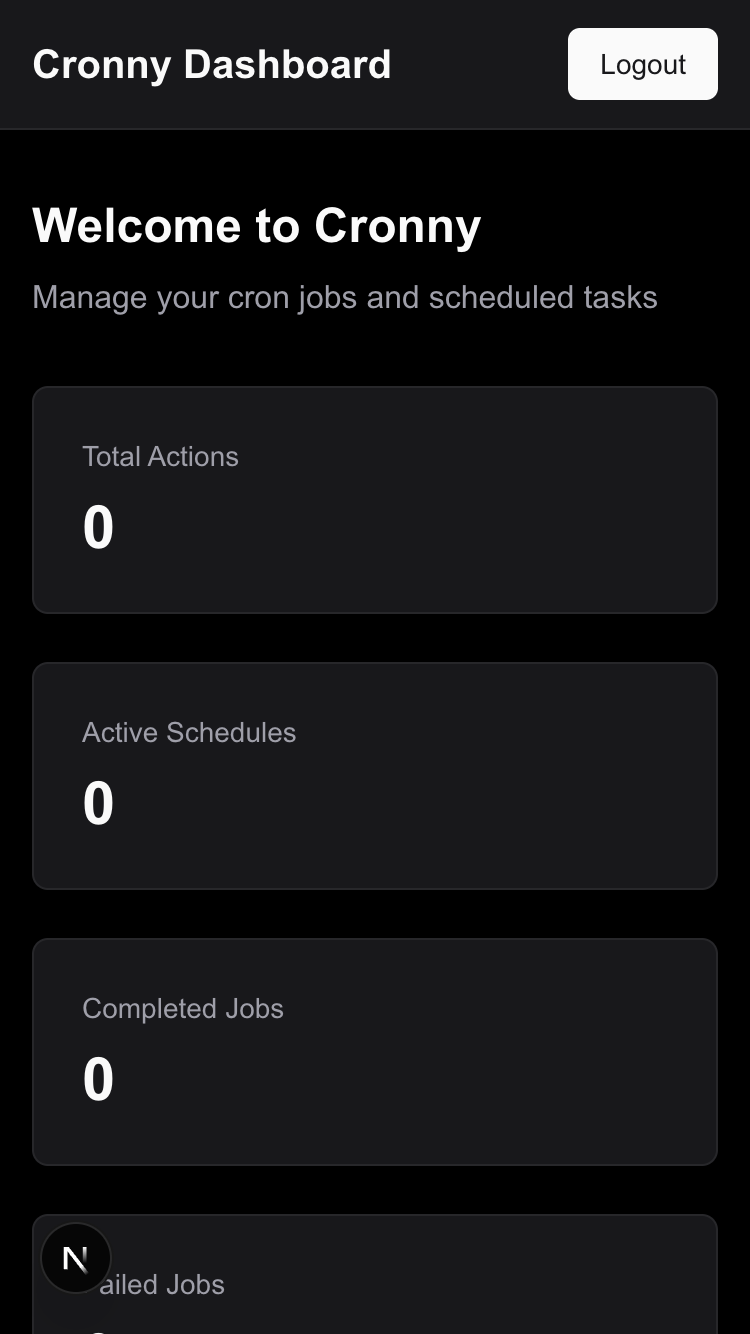
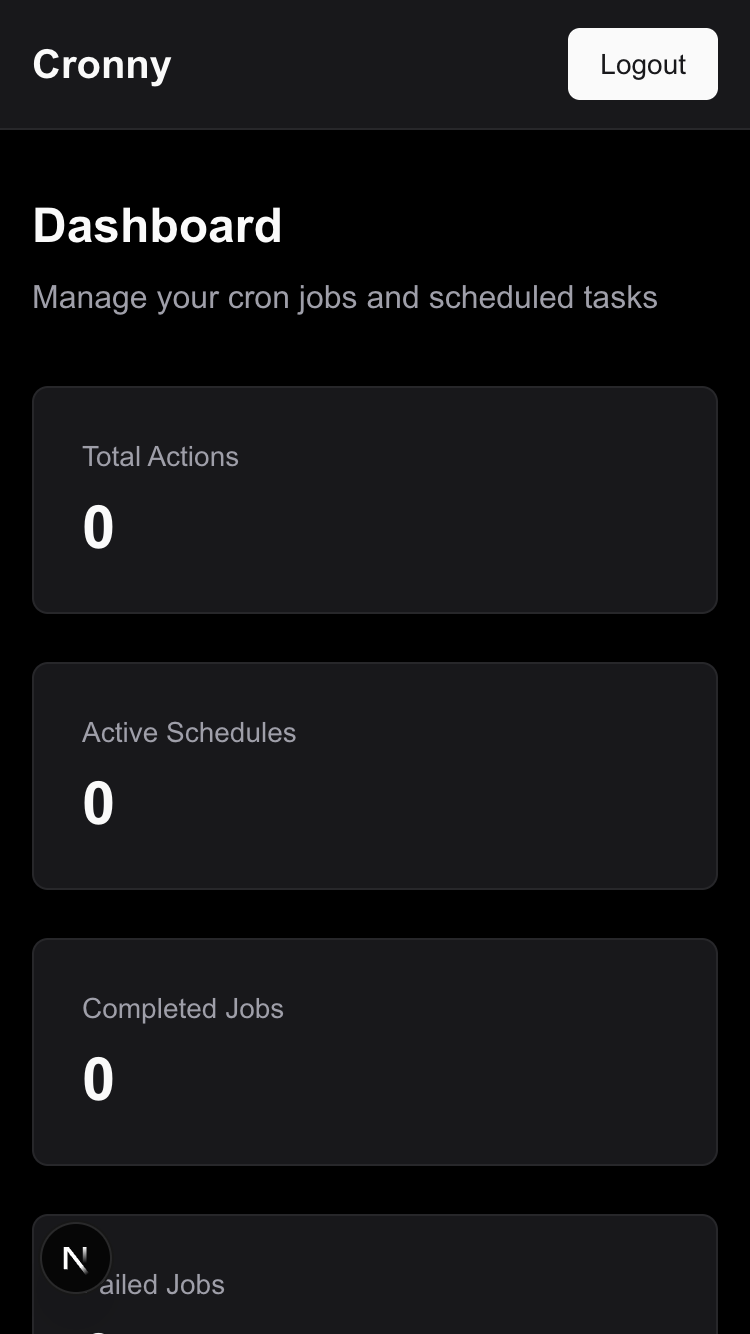
Add screenshots for new Schedules and Actions pages
Captures desktop, tablet, and mobile views of:
- Updated dashboard with new navigation
- Schedules management page
- Actions management page

Screenshots show the CRUD interface with DataTable, navigation links,
and consistent PageLayout across all pages.

Changed region(s): [[0.0307, 0.1537, 0.644, 0.1844], [0.2453, 0.0307, 0.5213, 0.0615]]

diff --git a/cronui/screenshots-repo/index.html b/cronui/screenshots-repo/index.html
@@ -120,9 +120,9 @@
   <div class="container">
     <h1>Cronny UI Screenshots</h1>
     <div class="metadata">
-      <p><strong>Last Updated:</strong> 15/02/2026, 8:11:49 am</p>
+      <p><strong>Last Updated:</strong> 15/02/2026, 9:32:49 am</p>
       <p><strong>Base URL:</strong> http://localhost:3000</p>
-      <p><strong>Total Screenshots:</strong> 3</p>
+      <p><strong>Total Screenshots:</strong> 15</p>
       <p><strong>Viewports:</strong> desktop (1920x1080), tablet (768x1024), mobile (375x667)</p>
     </div>
 
@@ -148,6 +148,110 @@
               <div class="screenshot">
                 <div class="screenshot-header">mobile</div>
                 <img src="home-mobile.png" alt="home - mobile" onclick="openModal(this.src)">
+              </div>
+            
+        </div>
+      </div>
+    
+      <div class="route">
+        <div class="route-header">
+          <h2>login</h2>
+          <div class="route-path">/login</div>
+          <div class="route-description">Login page</div>
+        </div>
+        <div class="screenshots">
+          
+              <div class="screenshot">
+                <div class="screenshot-header">desktop</div>
+                <img src="login-desktop.png" alt="login - desktop" onclick="openModal(this.src)">
+              </div>
+            
+              <div class="screenshot">
+                <div class="screenshot-header">tablet</div>
+                <img src="login-tablet.png" alt="login - tablet" onclick="openModal(this.src)">
+              </div>
+            
+              <div class="screenshot">
+                <div class="screenshot-header">mobile</div>
+                <img src="login-mobile.png" alt="login - mobile" onclick="openModal(this.src)">
+              </div>
+            
+        </div>
+      </div>
+    
+      <div class="route">
+        <div class="route-header">
+          <h2>dashboard</h2>
+          <div class="route-path">/dashboard</div>
+          <div class="route-description">Main dashboard view</div>
+        </div>
+        <div class="screenshots">
+          
+              <div class="screenshot">
+                <div class="screenshot-header">desktop</div>
+                <img src="dashboard-desktop.png" alt="dashboard - desktop" onclick="openModal(this.src)">
+              </div>
+            
+              <div class="screenshot">
+                <div class="screenshot-header">tablet</div>
+                <img src="dashboard-tablet.png" alt="dashboard - tablet" onclick="openModal(this.src)">
+              </div>
+            
+              <div class="screenshot">
+                <div class="screenshot-header">mobile</div>
+                <img src="dashboard-mobile.png" alt="dashboard - mobile" onclick="openModal(this.src)">
+              </div>
+            
+        </div>
+      </div>
+    
+      <div class="route">
+        <div class="route-header">
+          <h2>schedules</h2>
+          <div class="route-path">/schedules</div>
+          <div class="route-description">Schedules management page</div>
+        </div>
+        <div class="screenshots">
+          
+              <div class="screenshot">
+                <div class="screenshot-header">desktop</div>
+                <img src="schedules-desktop.png" alt="schedules - desktop" onclick="openModal(this.src)">
+              </div>
+            
+              <div class="screenshot">
+                <div class="screenshot-header">tablet</div>
+                <img src="schedules-tablet.png" alt="schedules - tablet" onclick="openModal(this.src)">
+              </div>
+            
+              <div class="screenshot">
+                <div class="screenshot-header">mobile</div>
+                <img src="schedules-mobile.png" alt="schedules - mobile" onclick="openModal(this.src)">
+              </div>
+            
+        </div>
+      </div>
+    
+      <div class="route">
+        <div class="route-header">
+          <h2>actions</h2>
+          <div class="route-path">/actions</div>
+          <div class="route-description">Actions management page</div>
+        </div>
+        <div class="screenshots">
+          
+              <div class="screenshot">
+                <div class="screenshot-header">desktop</div>
+                <img src="actions-desktop.png" alt="actions - desktop" onclick="openModal(this.src)">
+              </div>
+            
+              <div class="screenshot">
+                <div class="screenshot-header">tablet</div>
+                <img src="actions-tablet.png" alt="actions - tablet" onclick="openModal(this.src)">
+              </div>
+            
+              <div class="screenshot">
+                <div class="screenshot-header">mobile</div>
+                <img src="actions-mobile.png" alt="actions - mobile" onclick="openModal(this.src)">
               </div>
             
         </div>

diff --git a/cronui/scripts/capture-screenshots.js b/cronui/scripts/capture-screenshots.js
@@ -24,12 +24,18 @@ const routes = [
     description: 'Main dashboard view',
     requiresAuth: true
   },
-  // Add more routes as you build them:
-  // {
-  //   path: '/actions',
-  //   name: 'actions',
-  //   description: 'Actions management page'
-  // },
+  {
+    path: '/schedules',
+    name: 'schedules',
+    description: 'Schedules management page',
+    requiresAuth: true
+  },
+  {
+    path: '/actions',
+    name: 'actions',
+    description: 'Actions management page',
+    requiresAuth: true
+  },
 ];
 
 // Viewport configurations for responsive screenshots
